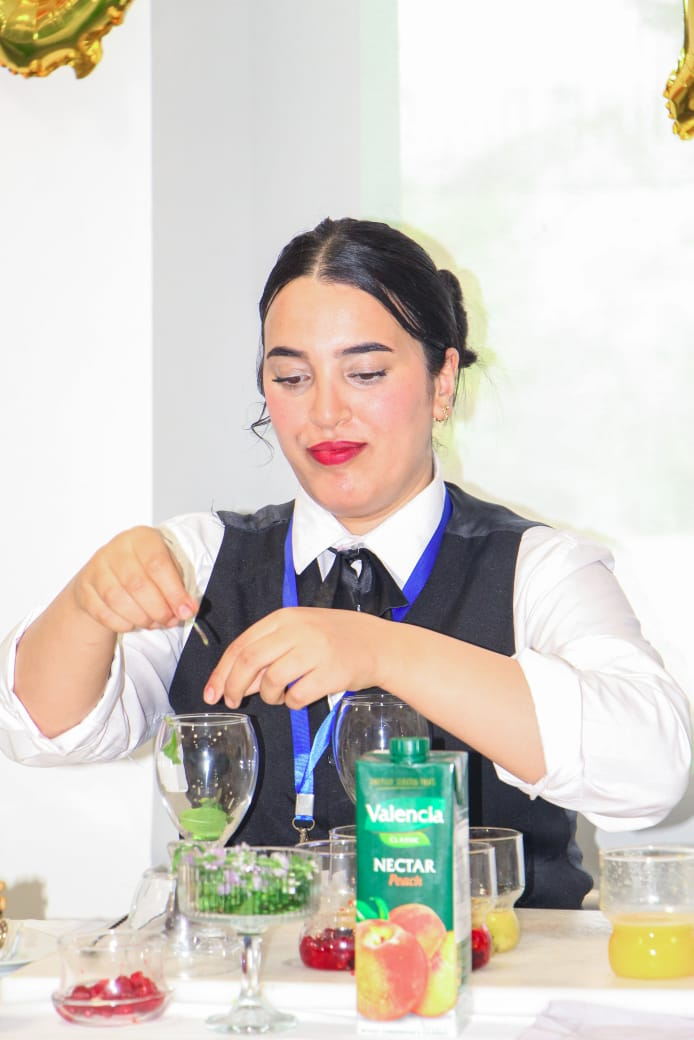
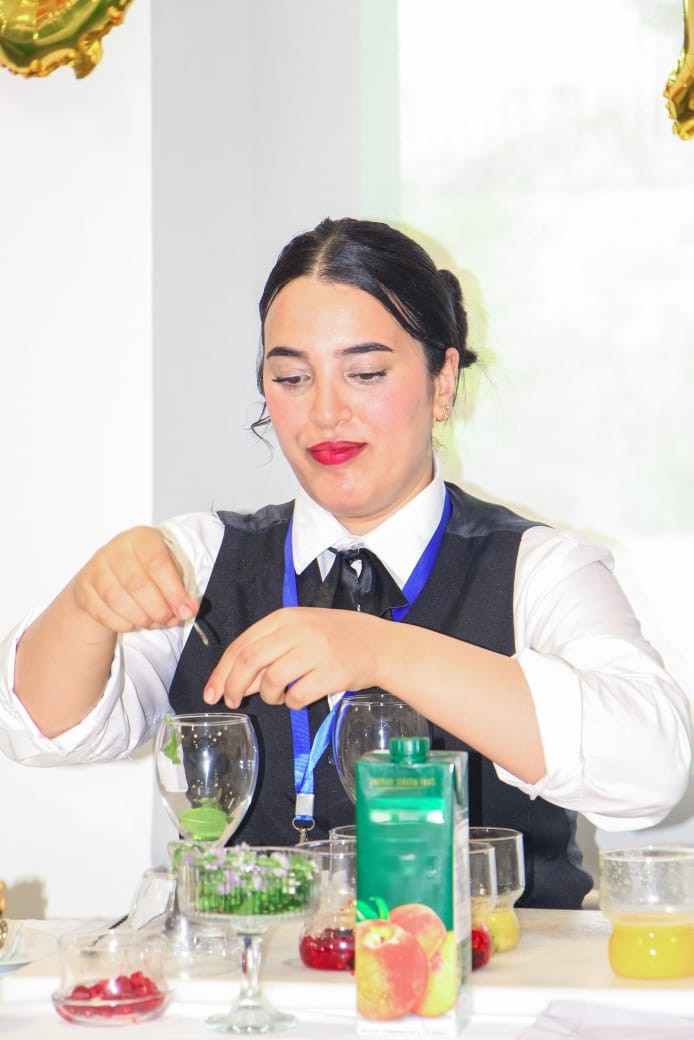
feat: implement base navigation, footer, and image frame components with mobile utility hook

Changed region(s): [[0.5144, 0.7385, 0.6354, 0.8615]]

diff --git a/src/components/diyafa/Nav.tsx b/src/components/diyafa/Nav.tsx
@@ -1,5 +1,9 @@
+
 import { useEffect, useState } from "react";
 import logoImg from "@/assets/logo png.png";
+import cmcLogo from "@/assets/cmc.jpg";
+import officeLogo from "@/assets/office.png";
+import tyabLogo from "@/assets/tyab.png";
 
 const links = [
   { href: "#heritage", label: "Héritage" },
@@ -27,14 +31,34 @@ export function Nav() {
       }`}
     >
       <div className="mx-auto flex max-w-7xl items-center justify-between px-6 py-4 md:px-10">
-        <a href="#top" className="flex items-center">
-          <img
-            src={logoImg}
-            alt="Patritalent — Un saveur d'hier, talent d'aujourd'hui"
-            className="h-[110px] w-auto md:h-[140px]"
-            loading="eager"
-          />
-        </a>
+        <div className="flex items-center gap-3 md:gap-5">
+          <a href="#top" className="flex items-center">
+            <img
+              src={logoImg}
+              alt="Patritalent — Un saveur d'hier, talent d'aujourd'hui"
+              className="h-[70px] w-auto md:h-[100px]"
+              loading="eager"
+            />
+          </a>
+          <span className="h-8 w-px bg-ink/15 md:h-12" />
+          <div className="flex items-center gap-2 md:gap-4">
+            <img
+              src={officeLogo}
+              alt="Office"
+              className="h-8 w-auto object-contain md:h-12"
+            />
+            <img
+              src={cmcLogo}
+              alt="CMC"
+              className="h-8 w-auto object-contain md:h-12"
+            />
+            <img
+              src={tyabLogo}
+              alt="Tyab"
+              className="h-8 w-auto object-contain md:h-12"
+            />
+          </div>
+        </div>
         <nav className="hidden items-center gap-8 md:flex">
           {links.map((l) => (
             <a

diff --git a/src/components/diyafa/Footer.tsx b/src/components/diyafa/Footer.tsx
@@ -1,4 +1,7 @@
 import logoImg from "@/assets/logo png.png";
+import cmcLogo from "@/assets/cmc.jpg";
+import officeLogo from "@/assets/office.png";
+import tyabLogo from "@/assets/tyab.png";
 
 export function Footer() {
   return (
@@ -6,12 +9,35 @@ export function Footer() {
       <div className="mx-auto flex max-w-7xl flex-col gap-10 md:flex-row md:items-end md:justify-between">
         <div className="max-w-md">
           <div className="flex flex-col items-start gap-4">
-            <img
-              src={logoImg}
-              alt="Patritalent — Un saveur d'hier, talent d'aujourd'hui"
-              className="h-[120px] w-auto md:h-[160px]"
-              loading="lazy"
-            />
+            <div className="flex flex-wrap items-center gap-4">
+              <img
+                src={logoImg}
+                alt="Patritalent — Un saveur d'hier, talent d'aujourd'hui"
+                className="h-[80px] w-auto md:h-[110px]"
+                loading="lazy"
+              />
+              <span className="hidden h-12 w-px bg-ink/15 sm:block" />
+              <div className="flex items-center gap-3">
+                <img
+                  src={officeLogo}
+                  alt="Office"
+                  className="h-8 w-auto object-contain md:h-12"
+                  loading="lazy"
+                />
+                <img
+                  src={cmcLogo}
+                  alt="CMC"
+                  className="h-8 w-auto object-contain md:h-12"
+                  loading="lazy"
+                />
+                <img
+                  src={tyabLogo}
+                  alt="Tyab"
+                  className="h-8 w-auto object-contain md:h-12"
+                  loading="lazy"
+                />
+              </div>
+            </div>
             <p className="serif text-xs italic text-ink/60">
               Concours de l'Hospitalité à travers la Gastronomie
             </p>

diff --git a/src/components/diyafa/PlateFrame.tsx b/src/components/diyafa/PlateFrame.tsx
@@ -25,7 +25,6 @@ const ratios = {
 
 export function PlateFrame({
   label,
-  caption,
   variant = "warm",
   className = "",
   ratio = "portrait",
@@ -62,22 +61,7 @@ export function PlateFrame({
       />
       {/* spotlight */}
       <div className="absolute inset-0 bg-[radial-gradient(ellipse_at_30%_25%,oklch(1_0_0/0.35),transparent_55%)]" />
-      {/* caption */}
-      <figcaption className="absolute inset-x-0 bottom-0 flex items-end justify-between gap-4 p-5">
-        <span className="serif text-xs italic uppercase tracking-[0.25em] text-cream/80">
-          {label}
-        </span>
-        {caption && (
-          <span className="text-[10px] uppercase tracking-[0.2em] text-cream/60">
-            {caption}
-          </span>
-        )}
-      </figcaption>
-      {/* corner mark */}
-      <span className="absolute left-5 top-5 h-px w-8 bg-cream/60" />
-      <span className="absolute left-5 top-5 h-8 w-px bg-cream/60" />
-      <span className="absolute right-5 top-5 h-px w-8 bg-cream/60" />
-      <span className="absolute right-5 top-5 h-8 w-px bg-cream/60" />
+
     </motion.figure>
   );
 }

diff --git a/src/hooks/use-mobile.tsx b/src/hooks/use-mobile.tsx
@@ -17,3 +17,4 @@ export function useIsMobile() {
 
   return !!isMobile;
 }
+;